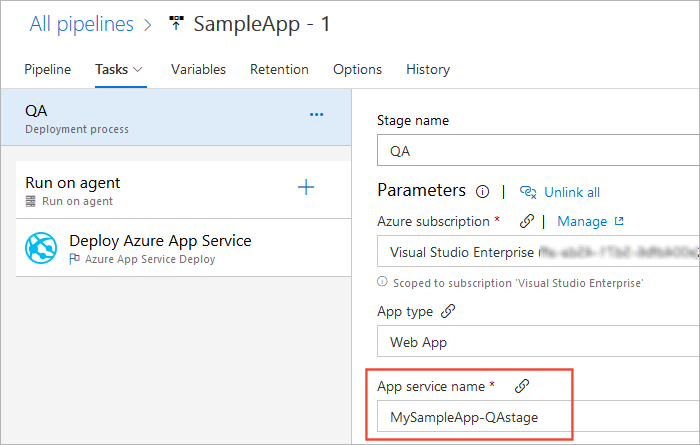
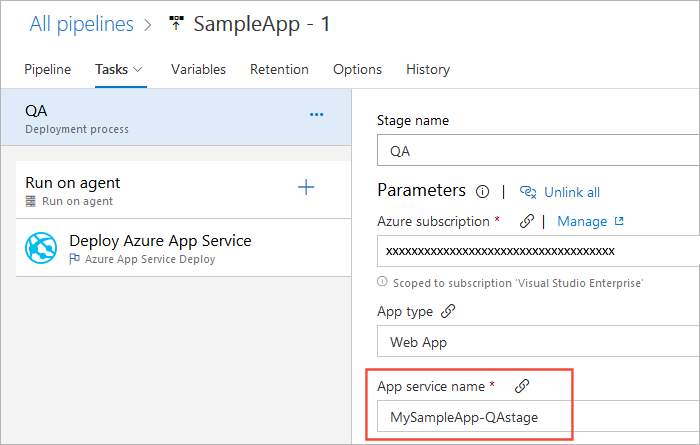
multi stage releases (#9404)
* deployment stages

* release & approvals

* Update docs/pipelines/release/define-multistage-release-process.md

* Apply suggestions from code review

---------

Changed region(s): [[0.54, 0.5258, 1.0, 0.5843]]

diff --git a/docs/pipelines/release/define-multistage-release-process.md b/docs/pipelines/release/define-multistage-release-process.md
@@ -1,112 +1,106 @@
 ---
-title: Create a multi-stage release pipeline
+title: Create a multi-stage Classic release pipeline
 description: Learn how to create a multi-stage Classic release pipeline for your ASP.NET Core app using Azure Pipelines.
 ms.topic: tutorial
-ms.date: 12/10/2024
+ms.date: 07/02/2026
 monikerRange: '<= azure-devops'
 ---
 
-# Create a multi-stage release pipeline (Classic)
+# Create a multi-stage Classic release pipeline
 
 [!INCLUDE [version-lt-eq-azure-devops](../../includes/version-lt-eq-azure-devops.md)]
 
-Azure Pipelines enables developers to deploy their applications across multiple environments using both YAML and Classic pipelines. This article walks you through creating a multi-stage Classic release pipeline to deploy your ASP.NET Core web app to multiple stages.
-
-In this tutorial, you'll learn how to:
-
-> [!div class="checklist"]
-> * Set up continuous deployment triggers
-> * Add stages
-> * Add pre-deployment approvals
-> * Create releases and monitor deployments
+Azure Pipelines enables developers to deploy their applications across multiple environments by using either YAML or Classic pipelines. This tutorial walks you through creating a multi-stage Classic release pipeline for your ASP.NET Core web app, including how to set up continuous deployment triggers, add stages, configure pre-deployment approvals, and create and monitor releases.
 
 ## Prerequisites
 
-- An Azure DevOps organization. [Create one for free](../../organizations/accounts/create-organization.md).
-
-- An Azure DevOps project. Create a new [project](../../organizations/projects/create-project.md#create-a-project) if you don't have one already.
-
-- A Classic release pipeline that contains at least one stage. If you don't already have one, [Create a Classic release](releases.md).
+| **Product**        | **Requirements**  |
+|--------------------|-------------------|
+| **Azure DevOps**   | - An [Azure DevOps organization](../../organizations/accounts/create-organization.md).<br> - An [Azure DevOps project](../../organizations/projects/create-project.md).<br> - A Classic release pipeline that contains at least one stage. If you don't already have one, [Create a Classic release](releases.md).<br> - **Permissions:**<br>   &nbsp;&nbsp;&nbsp;&nbsp;- To grant access to all pipelines in the project, you must be a member of the [Project Administrators group](../../organizations/security/change-project-level-permissions.md). |
 
 ## Set up continuous deployment triggers
 
-Enabling the continuous deployment trigger will configure the pipeline to automatically create a new release whenever a new pipeline artifact becomes available.
+When you enable the continuous deployment trigger, it automatically creates a new release whenever a new pipeline artifact becomes available.
 
-1. Sign in to your Azure DevOps organization, and then navigate to your project.
+1. Sign in to Azure DevOps, and then go to your project.
 
 1. Select **Azure Pipelines** > **Releases**, select your release pipeline, and then select **Edit**.
 
-1. In the **Artifacts** section, select the **Continuous deployment trigger** icon to open the trigger panel, then toggle it to enable.
+1. In the **Artifacts** section, select the **Continuous deployment trigger** icon to open the trigger panel, and then turn it on.
 
-1. Under the first stage, select the **Pre-deployment conditions** icon and ensure the deployment trigger is set to **After release**. This triggers deployments to this stage automatically when a new release is created. 
+1. Under the first stage, select the **Pre-deployment conditions** icon, and then verify that the deployment trigger is set to **After release**. This setting automatically triggers deployment to the stage whenever a new release is created.
 
 ## Add stages
 
-1. Sign in to your Azure DevOps organization, and then navigate to your project.
+Add stages to model each environment in your release process and control when deployments move from one stage to the next.
+
+1. Sign in to Azure DevOps, and then go to your project.
 
 1. Select **Azure Pipelines** > **Releases**, select your release pipeline, and then select **Edit**.
 
 1. Select **+ Add** > **New stage** to create a new stage.
 
-1. In your newly added stage, select the **Pre-deployment conditions** icon. Set the trigger to **After stage**, and then select your original stage from the drop-down menu.
+1. In the new stage, select the **Pre-deployment conditions** icon. Set the trigger to **After stage**, and then select your original stage from the drop-down menu so this stage runs after the previous one completes.
  
     :::image type="content" source="media/define-multistage-release-process/change-trigger-prod.png" alt-text="A screenshot displaying how to set up pre-deployment conditions in a Classic release pipeline.":::
     
-1. Select the **Tasks** drop-down menu and select your desired stage. Depending on the tasks that you're using, change the settings so that this stage deploys to your desired target. In this example, we're using **Deploy Azure App Service** task to deploy to an Azure App Service as shown below. 
+1. Open the **Tasks** drop-down menu, and then select the stage that you want to configure. Update the task settings for that stage so they deploy to the correct target environment. In this example, the **Deploy Azure App Service** task is configured to deploy to an Azure App Service, as shown in the following image.
 
     :::image type="content" source="media/define-multistage-release-process/change-target-environment.png" alt-text="A screenshot displaying how to set up stage tasks in a Classic release pipeline.":::
 
 ## Add Pre-deployment approvals
 
-Adding approvals ensures that all criteria are met before deploying to the next stage. 
+Use pre-deployment approvals to require a designated reviewer to approve a stage before the release can continue. This process helps you control promotion between environments and confirm that the stage is ready for deployment.
 
-1. Sign in to your Azure DevOps organization, and then navigate to your project.
+1. Sign in to Azure DevOps, and then go to your project.
 
 1. Select **Azure Pipelines** > **Releases**, select your release pipeline, and then select **Edit**.
 
-1. From **Stages**, select the **Pre-deployment conditions** icon in the desired stage, and then select the **Pre-deployment approvals** toggle button to enable it.
+1. In **Stages**, select the **Pre-deployment conditions** icon for the stage where you want to require approval, and then turn on **Pre-deployment approvals**.
 
-1. In the **Approvers** text box, enter the user(s) responsible for approving the deployment. It's also recommended to uncheck the **The user requesting a release or deployment should not approve it** checkbox.
+1. In the **Approvers** box, enter the users who should approve the deployment. If you want to allow the person who requested the release or deployment to approve it, clear **The user requesting a release or deployment should not approve it**.
 
-1. Select **Save** when you're done.
+1. Select **Save** to apply the approval settings.
 
     :::image type="content" source="media/define-multistage-release-process/select-approvers.png" alt-text="A screenshot displaying how to add pre-deployment approvers in a Classic release pipeline.":::
 
 ## Create a release
 
-In this example we'll manually create a new release. Usually a release is created automatically when a new build artifact is available. However, in this scenario we'll create it manually.
+After you configure your stages and approvals, create a release to start the deployment flow. Although releases are often created automatically when a new build artifact becomes available, this example shows how to create one manually so you can review the configuration and monitor each stage as it runs.
 
-1. Sign in to your Azure DevOps organization, and then navigate to your project.
+1. Sign in to Azure DevOps, and then go to your project.
 
 1. Select **Azure Pipelines** > **Releases**, select your release pipeline, and then select **Edit**.
 
-1. Select the **Release** drop-down menu and choose **Create release**.
+1. Select the **Release** dropdown menu, and then select **Create release**.
 
-1. Enter a description for the release, verify that the correct artifacts are selected, and then select **Create**.
+1. Enter a description for the release, verify that the correct artifact versions are selected for the deployment, and then select **Create**.
 
-1. A banner will appear indicating that a new release has been created. Select the release link to see more details. The release summary page will display the deployment status for each stage.
+1. When the release is created, a banner appears with a link to the new release. Select the link to open the release summary, where you can track the deployment status for each stage.
 
-1. The user(s) you added as approvers will receive an approval request. To approve, they can add a brief comment and select **Approve**.
+1. If you configured pre-deployment approvals, the assigned approvers receive an approval request before the deployment can continue to the next stage. To approve the deployment, they can add a brief comment and then select **Approve**.
 
     :::image type="content" source="media/define-multistage-release-process/approve-dialog.png" alt-text="A screenshot displaying how to approve deployment requests in a Classic release pipeline.":::
 
-> [!NOTE]   
-> Release administrators can access and override all approval decisions.
+> [!NOTE]
+> Release administrators can view and override approval decisions when needed, such as when an approver is unavailable or a deployment must proceed without delay.
 
 ## Monitor and track deployments
 
-Deployment logs allow you to monitor and troubleshoot the release of your application. Follow the steps below to check the logs for your deployment:
+After the release starts, use the deployment logs to follow progress across stages, inspect individual tasks, and troubleshoot failures or unexpected behavior. The release summary gives you a stage-level view, and the logs provide the detailed task output that you need for validation and debugging.
 
-1. In the release summary, hover over a stage and select **Logs**. You can also access the logs page during deployment to see the live logs of each task.
+1. In the release summary, hover over a stage, and then select **Logs**. You can also open the logs while the deployment is still running to watch the live output for each task.
    
-1. Select any task to view its specific logs. You can also download individual task logs or a zip of all the log files.
+1. Select a task to view its detailed logs. If you need to review the output offline or share it with others, you can download the log for an individual task or download a .zip file that contains all logs for the release.
 
-1. If you need additional information to debug your deployment, you can [run the release in debug mode](../../pipelines/release/variables.md#run-a-release-in-debug-mode).
+1. If the standard logs don't provide enough detail, [run the release in debug mode](../../pipelines/release/variables.md#run-a-release-in-debug-mode) to capture additional diagnostic information.
 
     :::image type="content" source="media/define-multistage-release-process/download-logs.png" alt-text="A screenshot displaying deployment logs in a Classic release pipeline.":::
     
 ## Related content
 
-- [Use approvals and gates to control your deployment](deploy-using-approvals.md)
-- [Deploy pull request Artifacts](deploy-pull-request-builds.md)
-- [Deploy from multiple branches](deploy-multiple-branches.md)
+- [Deploy pull request Artifacts with Classic release pipelines](deploy-pull-request-builds.md)
+
+- [Deploy multiple branches to different stages](deploy-multiple-branches.md)
+
+- [Control deployments with gates and approvals](deploy-using-approvals.md)